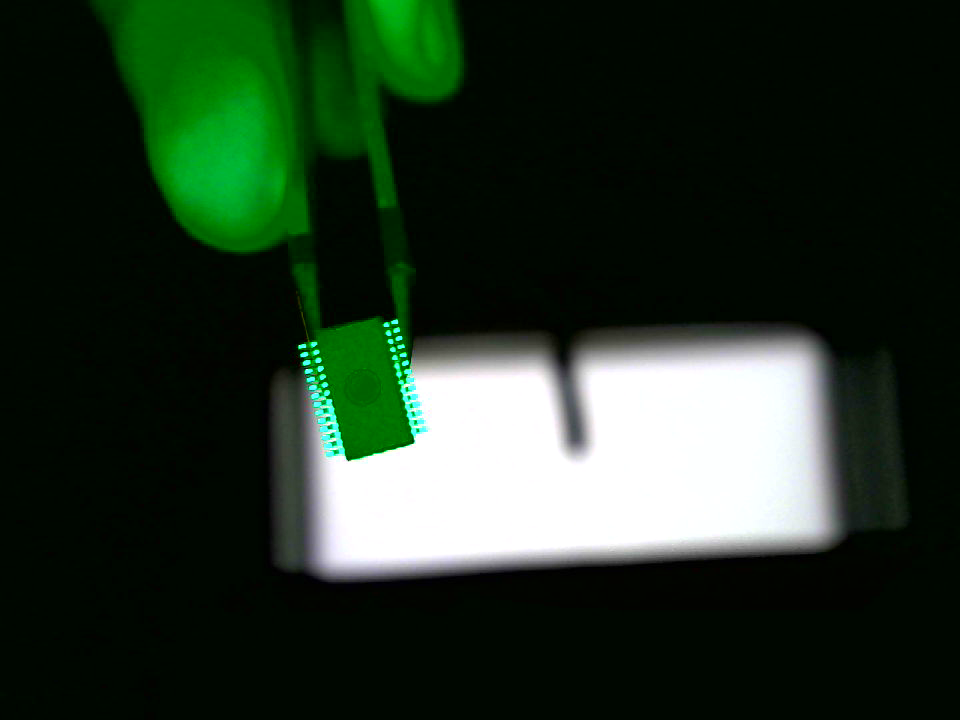
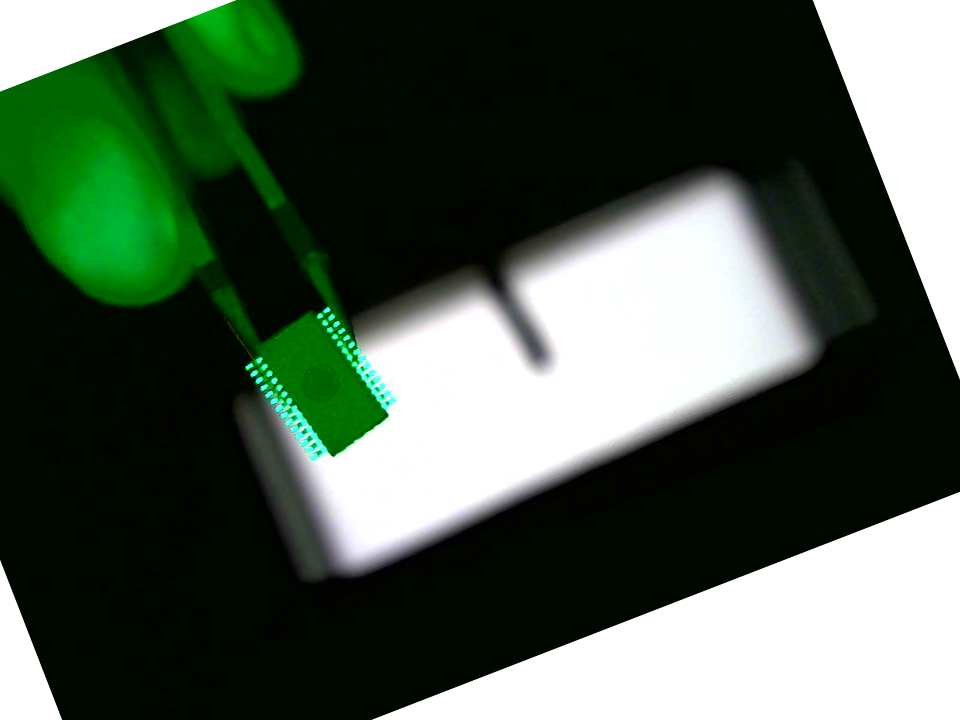
Advanced part-Detection: PUE

diff --git a/src/process/image/PartDetector.java b/src/process/image/PartDetector.java
@@ -25,11 +25,16 @@ public class PartDetector {
 	public double cgY;
 	public double rotation;
 	
+	public double pue_Value;
+	
 	public static boolean newAlgorithm = true;
+	
+	public boolean pue;
 	
 	public PartDetector(int centerRotX, int centerRotY){
 		crX = centerRotX;
 		crY = centerRotY;
+		pue = false;
 	}
 	
 	public void look(BufferedImage im, FootprintDetectionHints f, PicProcessingStatLoader pps){
@@ -48,6 +53,7 @@ public class PartDetector {
 		Point[][][] p = new Point[4][1][1];
 		
 		if(!newAlgorithm){
+			r = 0.0;
 			for (int j = 0; j < 4; j++) {
 				if(f.direction[j]){
 					i++;
@@ -72,10 +78,19 @@ public class PartDetector {
 		Graphics2D g2d = (Graphics2D)imProcessedToShow.getGraphics();
 		g2d.translate(crX, crY);
 		g2d.setRenderingHint(RenderingHints.KEY_INTERPOLATION, RenderingHints.VALUE_INTERPOLATION_BICUBIC);
-		g2d.rotate(-r);
+		g2d.rotate(-rotation);
 		g2d.drawImage(imToShow, -crX, -crY, null);
 		
-		int[] cmg = CgDetector.getAdvCG(imProcessedToShow, 50);
+		int[] cmg;
+		
+		if(newAlgorithm){
+			cmg = rotDec.getCoR();
+			utility.VectorAdvanced v = new VectorAdvanced(crX,crY,cmg[0],cmg[1]);
+			v.rotate(-rotation);
+			cmg = new int[]{(int)v.x2,(int)v.y2};
+		}else{
+			cmg = CgDetector.getAdvCG(imProcessedToShow, 50);
+		}
 		
 		PicturFpComparison pfc = new PicturFpComparison(f.fp, pps.scaling, cmg[0], cmg[1]);
 		pfc.search(imProcessedToShow, PicturFpComparison.UP_DOWN, 50);
@@ -95,7 +110,7 @@ public class PartDetector {
 		for (int j = 0; j < im.getHeight(); j+=5) {
 			g2d.drawLine(0, j, im.getWidth(), j);
 		}
-		g2d.setColor(Color.blue);
+		g2d.setColor(Color.green);
 		g2d.drawLine(-10+cmg[0], cmg[1], 10+cmg[0], cmg[1]);
 		g2d.drawLine(cmg[0], -10+cmg[1], cmg[0], 10+cmg[1]);
 		cmg[0] = pfc.xPos;
@@ -110,6 +125,19 @@ public class PartDetector {
 		crToCg.rotate(rotation);
 		cgX = crToCg.x2;
 		cgY = crToCg.y2;
+		//Checking PUE
+		
+		int pue_Ammount = rotDec.numberOfPixel;
+		int pue_Second = (int)(pfc.detectedMax/255);
+		
+		pue_Value = (double)pue_Second/(double)pue_Ammount;
+		if(pue_Value<f.pue_Percent){
+			pue = true;
+			debug.Debug.println("* PUE: Footprint dosn't match propaly!", debug.Debug.ERROR);
+		}else if(f.pue_Number>pue_Ammount){
+			pue = true;
+			debug.Debug.println("* PUE: Footprint has to little points!", debug.Debug.ERROR);
+		}
 		
 		//2nd painting:
 		g2d = (Graphics2D)imToShow.getGraphics();
@@ -131,7 +159,8 @@ public class PartDetector {
 		g2d.translate(crToCg.x2, crToCg.y2);
 		g2d.setRenderingHint(RenderingHints.KEY_INTERPOLATION, RenderingHints.VALUE_INTERPOLATION_BICUBIC);
 		g2d.rotate(rotation);
-		//g2d.drawImage(fpp.buffer, -fpp.middleX, -fpp.middleY, null);
+		g2d.drawImage(fpp.buffer, -fpp.middleX, -fpp.middleY, null);
+		//2nd painting: END
 		
 	}
 }

diff --git a/src/process/image/RotationDetector.java b/src/process/image/RotationDetector.java
@@ -15,6 +15,8 @@ import org.opencv.imgproc.Imgproc;
 public class RotationDetector {
 	
 	private RotatedRect rtr;
+	
+	public int numberOfPixel;
 
 	public RotationDetector(){
 		
@@ -30,6 +32,7 @@ public class RotationDetector {
 			}
 		}
 		Point[] p = new Point[ammount];
+		numberOfPixel = ammount;
 		ammount = 0;
 		for (int x = 0; x < img.getWidth(); x++) {
 			for (int y = 0; y < img.getHeight(); y++) {
@@ -47,6 +50,13 @@ public class RotationDetector {
 		return rtr.angle;
 	}
 	
+	public int[] getCoR(){
+		return new int[]{
+				(int)rtr.center.x,
+				(int)rtr.center.y
+		};
+	}
+	
 	public void paintResult(Graphics g){
 		Point[] p = new Point[4];
 		rtr.points(p);
@@ -55,5 +65,8 @@ public class RotationDetector {
 		for (int i = 0; i < p.length; i++) {
 			g.drawLine((int)p[i].x, (int)p[i].y, (int)p[(i+1)%4].x, (int)p[(i+1)%4].y);
 		}
+		
+		g.drawLine((int)rtr.center.x-5, (int)rtr.center.y, (int)rtr.center.x+5, (int)rtr.center.y);
+		g.drawLine((int)rtr.center.x, (int)rtr.center.y-5, (int)rtr.center.x, (int)rtr.center.y+5);
 	}
 }

diff --git a/src/process/image/PicturFpComparison.java b/src/process/image/PicturFpComparison.java
@@ -16,10 +16,15 @@ public class PicturFpComparison {
 	public static final int LEFT_RIGHT = 22;
 	public static final int UP_DOWN = 24;
 	
+	public boolean pickUpError;
+	
+	public long detectedMax;
+	
 	public PicturFpComparison(Footprint f, double scale, int x, int y){
 		fp = new FootprintPainter(f, scale, true, Color.white);
 		xPos = x;
 		yPos = y;
+		pickUpError = false;
 	}
 	
 	public void search(BufferedImage im, int direction, int size){
@@ -48,9 +53,11 @@ public class PicturFpComparison {
 			}
 		}
 		if(xMax<0||yMax<0){
-			debug.Debug.println("* PROBLEM Checking footprint: no match -> PUE!", debug.Debug.ERROR);
+			debug.Debug.println("* PUE: Checking footprint: no match!", debug.Debug.ERROR);
+			pickUpError = true;
 			return;
 		}
+		detectedMax = max;
 		xPos = xMax;
 		yPos = yMax;
 	}

diff --git a/src/components/FootprintDetectionHints.java b/src/components/FootprintDetectionHints.java
@@ -17,9 +17,15 @@ public class FootprintDetectionHints {
 	public boolean[] direction;
 	public boolean[] only27;
 	
-	public FootprintDetectionHints(Footprint f, int dir){
+	public final double pue_Percent;
+	public final int pue_Number;
+	
+	public FootprintDetectionHints(Footprint f, int dir, double pue_Percent, int pue_Number){
 		dirNumbers = dir;
 		fp = f;
+		this.pue_Percent = pue_Percent;
+		this.pue_Number = pue_Number;
+		
 		
 		switch (dirNumbers) {
 		case DETECT_ONLY_DOWN:
